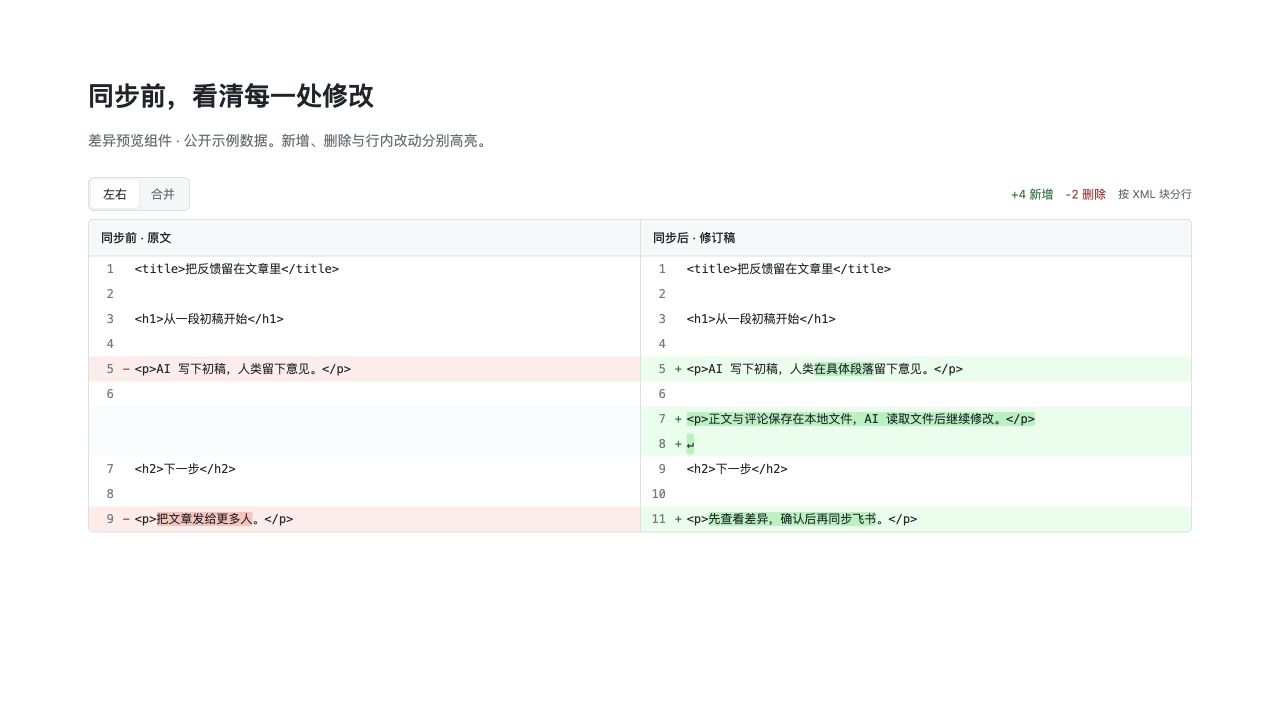
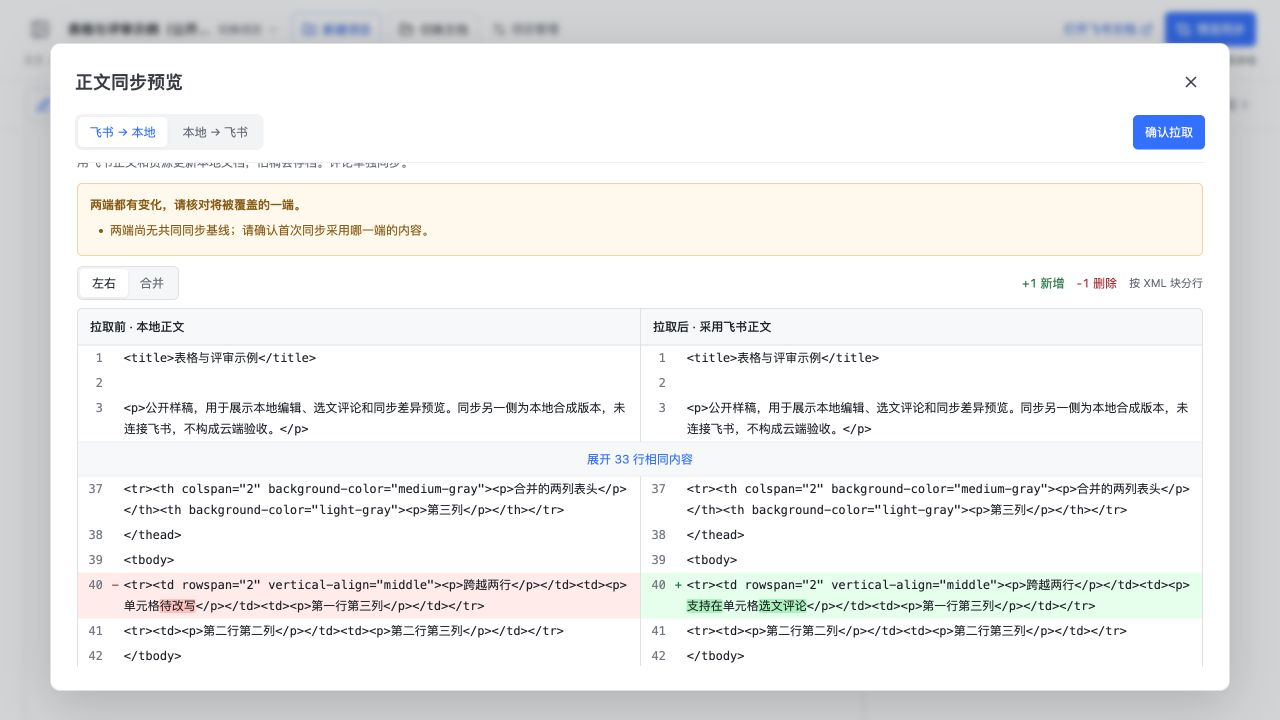
Fix Obsidian preview recovery and clarify renderer documentation
Add a settings recovery path when the project catalog cannot be read. Explain the DocxXML renderer and optional official CLI sync, with privacy-reviewed table and sync preview screenshots.

Changed region(s): [[0.0, 0.0, 1.0, 1.0], [0.0938, 0.55, 0.4688, 0.6111], [0.5, 0.4278, 0.6562, 0.4583]]

diff --git a/obsidian-sync-plugin/tests/ui.test.ts b/obsidian-sync-plugin/tests/ui.test.ts
@@ -196,6 +196,23 @@ it('does not expose a new binding form after project or sidecar inspection fails
   const t=await setup();t.service.project.mockRejectedValue(new Error('项目配置文件损坏'));t.open();await screen.findByText('项目配置文件损坏');
   expect(screen.queryByRole('button',{name:'新建飞书文档'})).toBeNull();expect(screen.getByRole('button',{name:'CLI 设置'})).toBeTruthy();expect(screen.getByRole('button',{name:'重新读取项目关联'})).toBeTruthy();
 });
+it('lets a failed preview repair its catalog configuration without keeping the sync window open or calling the cloud',async()=>{
+  const t=await setup();t.plugin.settings.catalogPath='/retired/project/projects.json';
+  t.service.project.mockRejectedValue(new Error('项目索引目录已被移动或删除，请重新打开。'));
+  const save=vi.spyOn(t.plugin,'saveData');t.plugin.openPreview(t.file as any,'push');
+  await screen.findByText('项目索引目录已被移动或删除，请重新打开。');
+  expect(screen.getByText('当前项目配置：/retired/project/projects.json')).toBeTruthy();
+  expect(screen.getByRole('button',{name:'重新读取项目关联'})).toBeTruthy();
+  expect(screen.queryByRole('button',{name:'新建飞书文档'})).toBeNull();
+  fireEvent.click(screen.getByRole('button',{name:'CLI 设置'}));
+  expect(screen.queryByRole('heading',{name:'正文同步预览'})).toBeNull();expect(modals).toHaveLength(1);
+  fireEvent.input(screen.getByLabelText('项目配置文件'),{target:{value:'/current/project/projects.json'}});
+  fireEvent.click(screen.getByRole('button',{name:'保存配置'}));await screen.findByText('配置已保存；尚未运行 CLI。');
+  expect(t.plugin.settings.catalogPath).toBe('/current/project/projects.json');
+  expect(save).toHaveBeenCalledWith(expect.objectContaining({catalogPath:'/current/project/projects.json'}));
+  for(const method of [t.service.preview,t.service.apply,t.service.bind,t.service.comments,t.service.prepareImport])expect(method).not.toHaveBeenCalled();
+  expect(t.release).not.toHaveBeenCalled();t.plugin.onunload();
+});
 
 it('routes orphaned historical documents from project management into recovery instead of local registration',async()=>{
   const t=await setup();t.service.listProjects.mockResolvedValue([]);t.service.project.mockResolvedValue(undefined as any);t.service.existingBinding.mockResolvedValue({revision:'old',documentId:'Doc',url:'https://example.feishu.cn/docx/Doc',pending:false});

diff --git a/obsidian-sync-plugin/src/main.tsx b/obsidian-sync-plugin/src/main.tsx
@@ -228,9 +228,9 @@ class SyncModal extends Modal {
       return;
     }
     if(this.notice)el.createEl('p',{text:this.notice,cls:'feishu-sync-status',attr:{role:'status'}});
-    if(!this.initial){const navigation=el.createDiv({cls:'feishu-sync-actions'});button(navigation,'CLI 设置',()=>{this.close();this.plugin.openSettings();}).disabled=this.busy;button(navigation,'恢复上一快照',()=>{this.close();this.plugin.openRestore(this.file);}).disabled=this.busy;}
+    if(!this.initial||this.inspectionFailed){const navigation=el.createDiv({cls:'feishu-sync-actions'});button(navigation,'CLI 设置',()=>{this.close();this.plugin.openSettings();}).disabled=this.busy;if(!this.initial)button(navigation,'恢复上一快照',()=>{this.close();this.plugin.openRestore(this.file);}).disabled=this.busy;}
     if(this.loading){el.createEl('p',{text:'正在读取项目关联…',attr:{role:'status'}});return;}
-    if(this.inspectionFailed){button(el,'重新读取项目关联',()=>void this.refresh()).disabled=this.busy;return;}
+    if(this.inspectionFailed){el.createEl('p',{text:'当前项目配置：'+this.plugin.settings.catalogPath,cls:'feishu-sync-path'});el.createEl('p',{text:'可通过 CLI 设置核对并保存项目配置路径，再重新打开此窗口。',cls:'feishu-sync-help'});button(el,'重新读取项目关联',()=>void this.refresh()).disabled=this.busy;return;}
     const area=el.createDiv({cls:'feishu-sync-controls'});
     if(!this.project?.cloud){if(this.existingBinding)this.renderRecovery(area,this.existingBinding);else this.renderBinding(area);}else{
       area.createEl('a',{text:'打开关联的飞书文档',href:this.project.cloud.url,attr:{target:'_blank',rel:'noopener noreferrer'}});

diff --git a/README.md b/README.md
@@ -1,29 +1,33 @@
 # 本地飞书文档
 
-**feishu-doc-local** 让你在本地编辑飞书格式文档、查看排版和留下评论，再交给 AI 继续改稿。文章成熟后，可关联飞书文档，预览差异后拉取或推送。
+**feishu-doc-local** 是基于[官方 lark CLI](https://github.com/larksuite/cli) 的 **DocxXML 文档交换格式**独立实现的本地渲染编辑器。它解析 XML，通过 Tiptap / ProseMirror 等组件在浏览器和 Obsidian 中渲染、编辑文档，不嵌入飞书网页。
 
-纯本地使用不需要飞书账号或 AI 服务。正文和评论保存在本地文件中，项目不内置模型。
+正文保存为本地 `.xml`，评论、回复和处理记录保存在相邻 `.review.json`，AI 工具可以直接读文件继续改稿。DocxXML 是 XML 文本；JSON 是本项目的反馈协议。精确格式见[写稿协议](docs/writing-protocol.md)。
 
-![本地编辑与评论](docs/images/editor-review.jpg)
+官方 CLI 用于可选的飞书同步：关联文档、预览差异后拉取或推送，并独立同步评论。CLI 由用户安装并管理登录和权限；纯本地编辑无需飞书账号、CLI 或 AI 服务。
 
 ## 项目能力
 
 - **编辑、只读、源码**三种模式，正文和已提交评论自动保存。
-- 支持标题、列表、富文本、代码、表格、公式、分栏、图片，以及部分白板预览和图源编辑。
+- 支持标题、列表、富文本、代码、公式、分栏、图片，以及部分白板预览和图源编辑。
+- 表格支持单元格编辑，呈现列宽、合并单元格和背景色；结构与样式可通过源码修改。
 - 选文评论、回复、解决与引用定位；文件列表、文章目录和评论面板可收起。
 - 可先写本地稿，之后再关联飞书；正文同步提供类似 Git diff 的差异预览，评论独立同步。
 - 同步前保存旧稿；可预览并恢复上一快照，恢复前也会存档当前版本。
 
-## 与飞书和 lark CLI 的关系
+## 界面预览
 
-| 部分 | 实现方式 |
-| --- | --- |
-| 文档格式 | 使用 [官方 lark CLI](https://github.com/larksuite/cli) 的 **DocxXML** 交换格式；采用版本与写法见[写稿协议](docs/writing-protocol.md)。这是 XML 文本，不是 Word `.docx`、Markdown 或普通 HTML。 |
-| 本地编辑与渲染 | 由本项目的 DocxXML 适配层、Tiptap / ProseMirror、KaTeX、Mermaid 等组件完成。飞书网页版是样式和交互对照，不是运行时嵌入的网页。 |
-| 飞书同步 | 显式调用用户安装的官方 CLI，读取、创建或更新文档、资源与评论。CLI 不随本项目分发，登录和权限由 CLI 管理。 |
-| 本地评论 | 保存为相邻 `.review.json`，同步时再转换成飞书评论接口所需的数据；它不是官方评论文件格式。 |
+以下截图使用公开样稿展示本地界面。同步预览的另一侧为本地合成数据，仅演示差异与确认流程，不作为云端验收。
 
-这是独立项目，与飞书 / Lark 官方没有隶属关系。本地渲染尚未完整复刻飞书，协议兼容也不代表所有样式都能无损往返，见[格式支持与限制](docs/style-coverage.md)。
+浏览器中的「S07 · 表格、列宽与合并」：
+
+![浏览器：S07 · 表格、列宽与合并](docs/images/browser-table.jpg)
+
+<!-- 待真实 Obsidian GUI 截图落盘后，在此展示同一公开样稿的「S07 · 表格、列宽与合并」；预期路径：docs/images/obsidian-table.jpg。 -->
+
+正文同步先预览两端差异，再确认拉取或推送：
+
+![预览同步：使用本地合成数据演示两端差异](docs/images/sync-preview.jpg)
 
 ## 选择使用方式
 
@@ -36,13 +40,11 @@
 
 四种方式共用编辑器与文件格式。Obsidian 基础插件无需额外安装 Node；同步扩展使用应用自带运行时，但通过 npm 安装的 CLI 自身仍需要系统 Node。
 
-本页介绍当前源码能力。[已发布安装包](https://github.com/To-Re/feishu-doc-local/releases)的功能以对应版本说明为准；仓库为私有时，下载需要仓库访问权。
-
 ## 开始使用
 
 ### Obsidian
 
-下载基础插件，将解压后的 `feishu-doc-local/` 放入库的 `.obsidian/plugins/`，在第三方插件设置中启用。打开命令面板，执行“本地飞书文档：打开 XML 文档”。
+从 [Releases](https://github.com/To-Re/feishu-doc-local/releases) 下载基础插件，将解压后的 `feishu-doc-local/` 放入库的 `.obsidian/plugins/`，在第三方插件设置中启用。打开命令面板，执行“本地飞书文档：打开 XML 文档”。
 
 需要同步飞书时，再安装可选扩展并配置官方 CLI 路径。详见[基础插件安装](obsidian-plugin/README.md)和[同步扩展配置](obsidian-sync-plugin/README.md)。
 
@@ -85,14 +87,13 @@ articles/
 └── resources/           # 文档引用的素材
 ```
 
-直接告诉你的 AI 工具：“请阅读 article.xml 和相邻的 article.review.json，处理我留下的意见。”无需复制或导出反馈。移动文章时应同时保留 JSON 和引用资源；快照不复制所有图片附件，缺失或变更的资源可能阻止恢复。
+直接告诉你的 AI 工具：“请阅读 article.xml 和相邻的 article.review.json，处理我留下的意见。”无需复制或导出反馈。移动文章时，同时保留 JSON 和引用资源。
 
 ## 使用边界
 
 - 目前以 macOS 验证；Obsidian 插件需手动安装，移动端和独立弹出窗口尚未支持。
 - 白板、电子表格和动态块不是完整飞书编辑器：白板组件评论同步到飞书时按整图定位；电子表格内部编辑暂不支持。
-- 飞书可能规范化格式，部分 CLI 版本还存在已确认的内容丢失问题。推送成功会回读更新本地，并保留旧稿；首次发布应核对[已知兼容性问题](docs/style-coverage.md#飞书往返的已知差异)。
-- 插件内真实发布、评论云端同步与完整双向往返仍未完成全部实测。请先用副本体验，保存冲突或同步结果未确认时不要删记录重试。
+- 飞书可能规范化格式，部分 CLI 版本存在内容丢失问题；复杂格式请先用副本验证。具体支持范围、往返差异与实测进度见[格式支持与限制](docs/style-coverage.md)。
 - 本地服务只监听 `127.0.0.1`，不用于公网多用户托管。自动保存不会自动发布到飞书。
 
 更多说明：[使用文档](docs/README.md) · [贡献指南](CONTRIBUTING.md) · [安全说明](SECURITY.md)

diff --git a/docs/assets-and-attribution.md b/docs/assets-and-attribution.md
@@ -1,6 +1,6 @@
 # 本地飞书文档：资源来源与分发边界
 
-核对日期：2026-09-13。适用项目：**本地飞书文档 / feishu-doc-local**。
+核对日期：2026-09-14。适用项目：**本地飞书文档 / feishu-doc-local**。
 
 本清单区分项目随附素材、依赖提供的图标与字体，以及用户打开文档后产生的私有资源。项目的 MIT 许可不重新授权用户文档、飞书下载内容或第三方字体。第三方许可总入口为 [THIRD_PARTY_NOTICES.md](../THIRD_PARTY_NOTICES.md)，完整文本在 `licenses/` 和对应依赖中保留。
 
@@ -17,9 +17,13 @@
 | `examples/assets/resource-check.csv`、`resource-a/note.txt`、`resource-b/note.txt` | 项目编写的资源树与文本预览测试材料，不含外部插图。 | 适用项目 MIT 许可。 |
 | `examples/compatibility.xml`、`local-resources.xml`、`compatibility-paste.html` | 项目编写的排版兼容性用例；图片复用 `colors.png`，公开链接是可点击文本而非下载的站点素材。 | 适用项目 MIT 许可。 |
 | `examples/showcase.xml` | 本轮编写的公开产品演示文章，内容为本地文章、人类评审与 AI 修订，使用自有 Mermaid 图源；无用户文章、账号、文档 token 或私人路径。 | 示例图源与文字适用项目 MIT 许可。 |
-| `docs/images/editor-review.jpg`、`document-outline.jpg`、`sync-preview.jpg` | 使用公开演示内容在本地产品界面生成；评论为演示数据，差异截图由实际 `XMLDiff` 组件渲染示例 XML。截图不含电脑桌面、浏览器账号、真实云端页面或私人文件位置。 | 产品说明素材；保留界面中第三方图标和字体原有许可。差异截图不是云端回执，本地截图不作为真实 Obsidian GUI 或云端往返的验收证据。 |
+| `docs/images/editor-review.jpg`、`document-outline.jpg` | 之前使用公开演示内容在本地产品界面生成，评论为演示数据；不含电脑桌面、浏览器账号、真实云端页面或私人文件位置。 | 产品说明素材；保留界面中第三方图标和字体原有许可。不作为真实 Obsidian GUI 或云端往返的验收证据。 |
+| `docs/images/browser-table.jpg` | 2026-09-14 使用 `examples/compatibility.xml` 的 S07 表格内容整理公开样稿，在真实浏览器的本地产品界面截图，展示普通表格、列宽、背景与合并。界面中的文件路径、项目关联均为演示配置。 | 产品说明素材；保留界面中第三方图标和字体原有许可。不包含私人稿件或真实飞书页面。 |
+| `docs/images/sync-preview.jpg` | 2026-09-14 在实际产品的完整「正文同步预览」窗口截图，使用上述公开样稿；同步另一侧为本地合成数据，修改一处表格文字以展示差异。未连接飞书，不是云端返回内容。 | 产品说明素材；保留界面中第三方图标和字体原有许可。仅演示界面和确认流程，不作为云端回执或往返验收证据。 |
 | `src/ui/whiteboard-preview.ts` 的 `type="blank"` 空态 | 原生 HTML / CSS 绘制白底边框和“空白画板”文字，无图片、SVG、字体下载或平台插图。 | 产品自身界面，适用项目 MIT 许可。 |
 | `tests/` 内联 SVG | 小型矩形、路径、文字和安全处理测试片段；不作为产品插图使用。 | 测试源码随项目分发。恶意 URL 等字符串仅用于验证拒绝外部加载。 |
+
+<!-- docs/images/obsidian-table.jpg 尚待采集。真实 Obsidian GUI 截图落盘后，在表中记录同一公开样稿 S07 的来源与许可；不能用浏览器或模拟宿主截图替代。 -->
 
 公开静态文件的 SHA-256：
 
